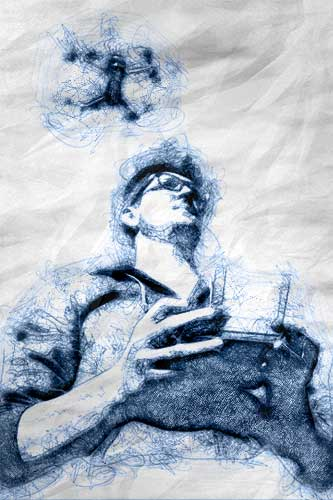
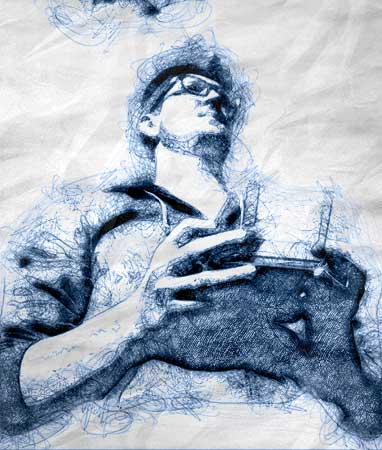
Image05 update

diff --git a/index.html b/index.html
@@ -112,7 +112,7 @@
         			</div>
         			<div class="col-lg-3 col-md-4 col-sm-6 unv">
         				<div class="h_gallery_item">
-        					<img src="img/gallery/gallery-9.jpg" alt="">
+        					<img src="img/Image05a.jpg" alt="">
         					<div class="hover">
         						<a href="#"><h4 class="title-text-overlay">Spreading Peace to world</h4></a>
         						<a class="light" href="img/gallery/gallery-9.jpg"><i class="fa fa-expand"></i></a>
